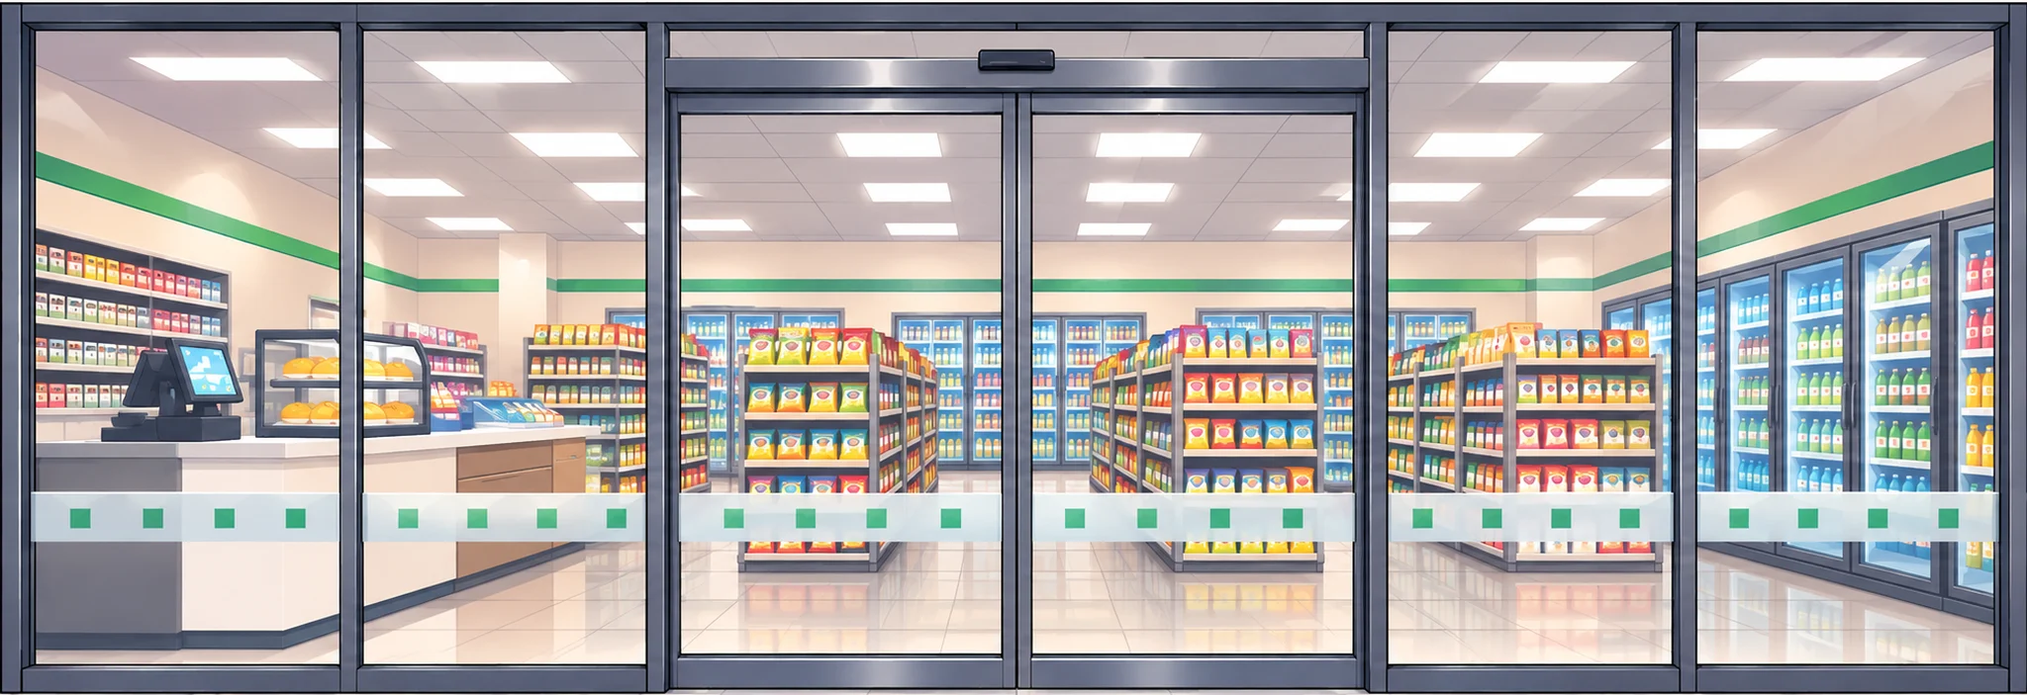
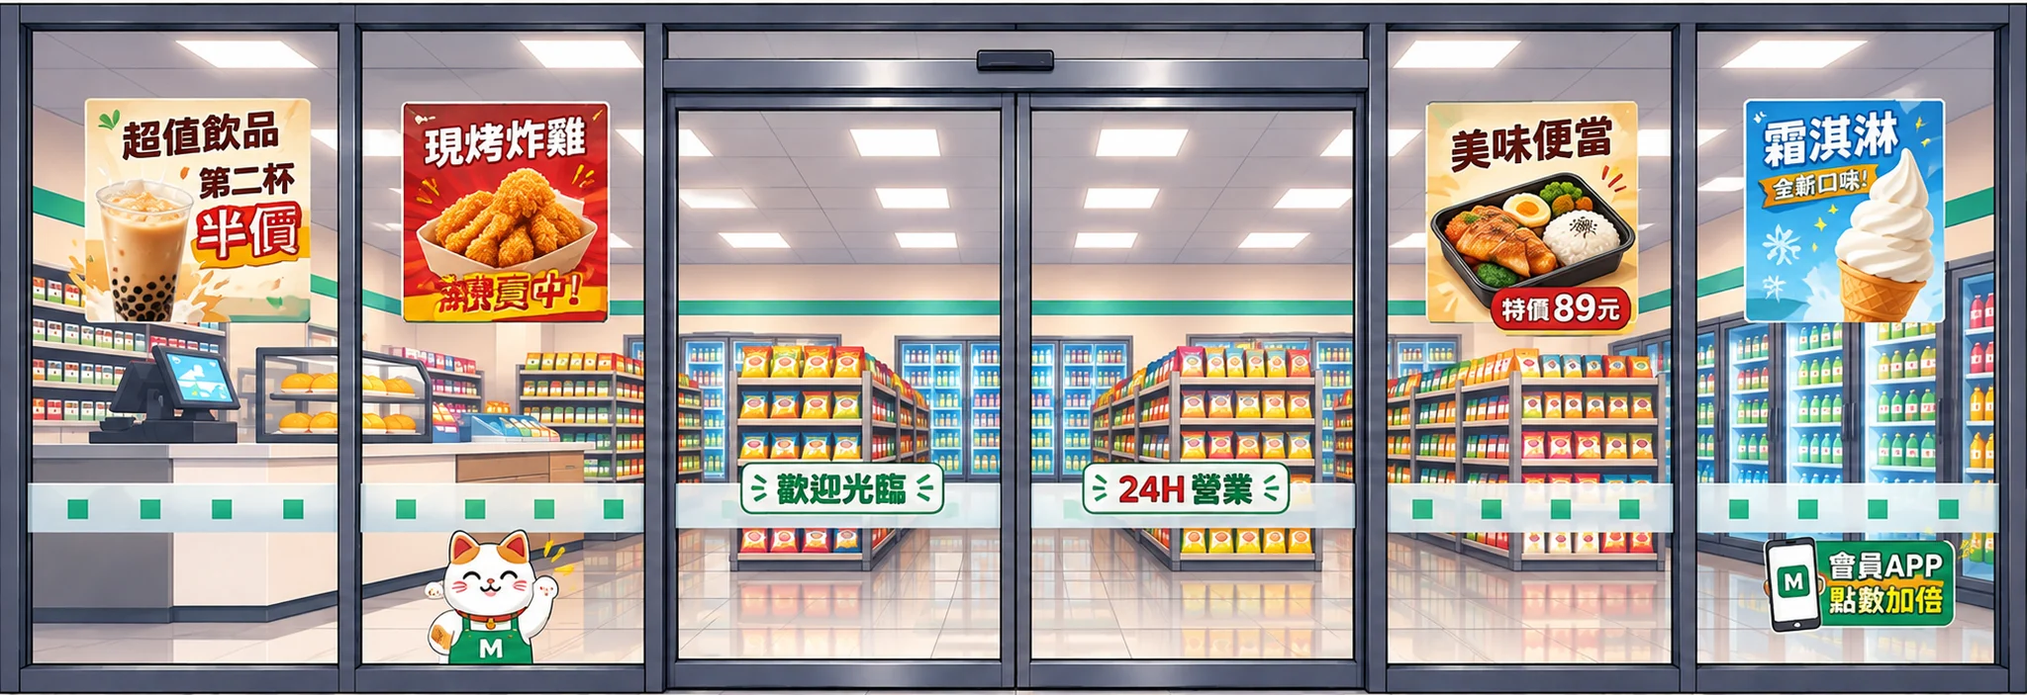
Outfits priced 8000–15000; five shifts and five claw wins a day; gacha tokens for sale (1000); coins above 65535 kept in the save code; new storefront picture
Claude-Session: https://claude.ai/code/session_01456otufrffQpDq9Gw439E7

diff --git a/public/index.html b/public/index.html
@@ -3170,15 +3170,15 @@ function buildStyle(t,v,out,acc){if(isStyleX(v))return buildStyleX(t,v);const g=
 }
 /* ---- 服飾店 outfits (styles 18–26): each has its own fixed colours (the colour rows don't change them), finer detail than the starter clothes ---- */
 const STYLEX=[
-  {n:"宮廷漢服",price:880,robe:6,d:"交領右衽、寬袖長裙，腰間繫紅色絲帶，背後披著淡藍披帛。"},
-  {n:"夏日浴衣",price:650,robe:7,d:"深藍底牽牛花浴衣，橘色寬腰帶在背後打成蝴蝶結。"},
-  {n:"海軍水手服",price:600,d:"白色上衣配深藍大方領、紅色領巾、百褶短裙和白色長襪。"},
-  {n:"星空魔法袍",price:780,robe:6,d:"綴滿金色星月的紫色長袍，立領、皮腰帶和星星胸針。"},
-  {n:"醒獅舞衣",price:720,d:"紅色對襟盤扣上衣，金黃腰帶，肩膀和衣襬滾著獅毛，配燈籠褲。"},
-  {n:"西部牛仔",price:640,d:"紅格子襯衫、皮背心配警長星章，大皮帶扣、牛仔褲和長靴。"},
-  {n:"太空人裝",price:980,d:"白色太空衣，胸前控制面板、任務臂章、維生背包和頸環。"},
-  {n:"紳士燕尾服",price:820,d:"黑色燕尾服配緞面翻領、銀灰背心、白領結和長燕尾。"},
-  {n:"偶像打歌服",price:900,d:"亮片外套配金色流蘇肩章、斜背綬帶和白色長褲。"},
+  {n:"宮廷漢服",price:13500,robe:6,d:"交領右衽、寬袖長裙，腰間繫紅色絲帶，背後披著淡藍披帛。"},
+  {n:"夏日浴衣",price:9000,robe:7,d:"深藍底牽牛花浴衣，橘色寬腰帶在背後打成蝴蝶結。"},
+  {n:"海軍水手服",price:8000,d:"白色上衣配深藍大方領、紅色領巾、百褶短裙和白色長襪。"},
+  {n:"星空魔法袍",price:11000,robe:6,d:"綴滿金色星月的紫色長袍，立領、皮腰帶和星星胸針。"},
+  {n:"醒獅舞衣",price:10000,d:"紅色對襟盤扣上衣，金黃腰帶，肩膀和衣襬滾著獅毛，配燈籠褲。"},
+  {n:"西部牛仔",price:8500,d:"紅格子襯衫、皮背心配警長星章，大皮帶扣、牛仔褲和長靴。"},
+  {n:"太空人裝",price:15000,d:"白色太空衣，胸前控制面板、任務臂章、維生背包和頸環。"},
+  {n:"紳士燕尾服",price:12000,d:"黑色燕尾服配緞面翻領、銀灰背心、白領結和長燕尾。"},
+  {n:"偶像打歌服",price:14000,d:"亮片外套配金色流蘇肩章、斜背綬帶和白色長褲。"},
 ];
 const STYLEX0=18; /* STYLES index of the first one */
 const isStyleX=v=>v>=STYLEX0&&v<STYLEX0+STYLEX.length;
@@ -4605,7 +4605,7 @@ const CODE_ITEMS=["xiang","hua","guo","bing","jin","fu"];
 function lookCode(){ const bits=[]; const put=(v,n)=>{ v=Math.max(0,Math.min((2**n)-1,v|0)); for(let i=n-1;i>=0;i--) bits.push((v/2**i|0)&1); };
   put(1,4); for(let i=0;i<13;i++) put(me.look[i]||0,5); put(bag.coins,16); CODE_ITEMS.forEach(k=>put(bag.items[k]||0,5)); put(bag.redThread?1:0,1);
   const ps=(bag.poems||[]).slice(-5); put(ps.length,3); ps.forEach(n=>put(n,6)); put(me.no||0,24);
-  const nm=[...String(me.sp?"":(me.name||""))].slice(0,10).join(""); const cu=[]; for(let i=0;i<nm.length;i++) cu.push(nm.charCodeAt(i)); put(Math.min(15,cu.length),4); cu.slice(0,15).forEach(c=>put(c,16)); { const a=accState(); put(Math.min(15,ACC_IDS.length),4); ACC_IDS.slice(0,15).forEach(id=>put(a.owned[id]?1:0,1)); } put(Math.min(255,bag.gacha||0),8); { const a=accState(), more=ACC_IDS.slice(15); put(more.length,6); more.forEach(id=>put(a.owned[id]?1:0,1)); } { const c=bag.cat&&bag.cat.pet; put(1,1); put(Math.min(255,bag.items.can||0),8); put(Math.min(255,bag.items.treat||0),8); put(c?1:0,1); if(c){ put(c.t,4); put(c.sd,16); const cn=[...String(c.nm||"")].slice(0,6); put(cn.length,3); cn.forEach(ch=>put(ch.charCodeAt(0),16)); TRICKS.forEach(([k])=>put(Math.min(7,c.tr&&c.tr[k]||0),3)); } } /* 貓: cans and your cat (older codes read as none) */ put(1,1); put(bag.clo||0,16); put(Math.max(0,Math.min(100,Math.round(bag.en??100))),7); SNACK_KEYS.forEach(k=>put(Math.min(63,(bag.snk||{})[k]||0),6)); /* 商店街: outfits bought, 精力, snacks (older codes read as none) */ /* 扭蛋幣 (codes made before it was added simply read as 0) */
+  const nm=[...String(me.sp?"":(me.name||""))].slice(0,10).join(""); const cu=[]; for(let i=0;i<nm.length;i++) cu.push(nm.charCodeAt(i)); put(Math.min(15,cu.length),4); cu.slice(0,15).forEach(c=>put(c,16)); { const a=accState(); put(Math.min(15,ACC_IDS.length),4); ACC_IDS.slice(0,15).forEach(id=>put(a.owned[id]?1:0,1)); } put(Math.min(255,bag.gacha||0),8); { const a=accState(), more=ACC_IDS.slice(15); put(more.length,6); more.forEach(id=>put(a.owned[id]?1:0,1)); } { const c=bag.cat&&bag.cat.pet; put(1,1); put(Math.min(255,bag.items.can||0),8); put(Math.min(255,bag.items.treat||0),8); put(c?1:0,1); if(c){ put(c.t,4); put(c.sd,16); const cn=[...String(c.nm||"")].slice(0,6); put(cn.length,3); cn.forEach(ch=>put(ch.charCodeAt(0),16)); TRICKS.forEach(([k])=>put(Math.min(7,c.tr&&c.tr[k]||0),3)); } } /* 貓: cans and your cat (older codes read as none) */ put(1,1); put(bag.clo||0,16); put(Math.max(0,Math.min(100,Math.round(bag.en??100))),7); SNACK_KEYS.forEach(k=>put(Math.min(63,(bag.snk||{})[k]||0),6)); put(Math.max(0,(bag.coins|0)-65535),24); /* (coins above the old 16-bit field) */ /* 商店街: outfits bought, 精力, snacks (older codes read as none) */ /* 扭蛋幣 (codes made before it was added simply read as 0) */
   while(bits.length%8) bits.push(0); const bytes=[]; for(let i=0;i<bits.length;i+=8){ let b=0; for(let j=0;j<8;j++) b=b*2+bits[i+j]; bytes.push(b); } bytes.push(bytes.reduce((a,b)=>(a+b)&255,0x5a));
   return "MZ-"+btoa(String.fromCharCode(...bytes)).replace(/\+/g,"-").replace(/\//g,"_").replace(/=+$/,""); }
 function readCode(str){ try{ str=String(str||"").trim().replace(/\s+/g,""); if(!/^MZ-[A-Za-z0-9_-]{10,}$/.test(str)) return null; const raw=atob(str.slice(3).replace(/-/g,"+").replace(/_/g,"/")); const bytes=[...raw].map(c=>c.charCodeAt(0));
@@ -4613,8 +4613,8 @@ function readCode(str){ try{ str=String(str||"").trim().replace(/\s+/g,""); if(!
   if(get(4)!==1) return null; const look=[]; for(let i=0;i<13;i++) look.push(get(5)); const coins=get(16); const items={}; CODE_ITEMS.forEach(k=>{ const v=get(5); if(v) items[k]=v; }); const red=get(1);
   const pn=get(3), poems=[]; for(let i=0;i<pn;i++){ const n=get(6); if(n>=1&&n<=60) poems.push(n); } const no=get(24); const nl=get(4); let name=""; for(let i=0;i<nl;i++) name+=String.fromCharCode(get(16));
   const an=get(4), acc=[]; for(let i=0;i<an;i++) if(get(1)&&ACC_IDS[i]) acc.push(ACC_IDS[i]); const gacha=get(8); { const an2=get(6); for(let i=0;i<an2;i++) if(get(1)&&ACC_IDS[15+i]) acc.push(ACC_IDS[15+i]); } let cans=0, treat=0, cat=null; if(get(1)){ cans=get(8); treat=get(8); if(get(1)){ cat={t:get(4)%11,sd:get(16)}; const l=get(3); let nm=""; for(let i=0;i<l;i++) nm+=String.fromCharCode(get(16)); cat.nm=nm||"咪咪"; cat.tr={}; TRICKS.forEach(([k])=>{ const v=get(3); if(v) cat.tr[k]=v; }); } }
-  let shop=null; if(get(1)){ shop={clo:get(16),en:get(7),snk:{}}; SNACK_KEYS.forEach(k=>{ const v=get(6); if(v) shop.snk[k]=v; }); }
-  return {look,coins,items,red,poems,no,name,acc,gacha,cans,treat,cat,shop}; }catch(e){ return null; } }
+  let shop=null; if(get(1)){ shop={clo:get(16),en:get(7),snk:{}}; SNACK_KEYS.forEach(k=>{ const v=get(6); if(v) shop.snk[k]=v; }); shop.xc=get(24); }
+  return {look,coins:coins+(shop&&shop.xc||0),items,red,poems,no,name,acc,gacha,cans,treat,cat,shop}; }catch(e){ return null; } }
 /* 除霧 (chair only, this screen only): the haze is lifted so the far scenery and the whole sky show reads clearly; press again to bring it back */
 const NOFOG={on:false,near:0,far:0};
 HANDLERS.noFog=()=>{ NOFOG.on=!NOFOG.on; if(NOFOG.on){ NOFOG.near=scene.fog.near; NOFOG.far=scene.fog.far; scene.fog.near=1e4; scene.fog.far=2e4; } else { scene.fog.near=NOFOG.near; scene.fog.far=NOFOG.far; } toast(NOFOG.on?"已除霧（只有你的畫面）":"霧氣已恢復",2200); openChair(); };
@@ -9958,6 +9958,11 @@ const inR=(r,x,z,m=0)=>x>r[0]+m&&x<r[1]-m&&z>r[2]+m&&z<r[3]-m;
 SX.walk=()=>false; SX.inP=()=>false; /* (the street is part of the 禪房 grounds now: innWalkableL) */
 if(typeof bag.en!=="number") bag.en=100; bag.snk=bag.snk&&typeof bag.snk==="object"?bag.snk:{}; bag.clo=bag.clo|0;
 const EN_SHIFT=25, CLAW_COST=15;
+/* daily limits: 打工 five shifts a day, 夾娃娃 five wins a day */
+const WORK_MAX=5, CLAW_WIN_MAX=5;
+function dayCount(k){ if(bag[k+"Day"]!==today){ bag[k+"Day"]=today; bag[k]=0; } return bag[k]|0; }
+function dayAdd(k){ dayCount(k); bag[k]=(bag[k]|0)+1; saveBag(); }
+const GACHA_PRICE=1000;
 /* snacks: 平安幣 price in the shop, 精力 they give back, and the NT$ shelf price used in the cashier game */
 const SNACKS=[
   {k:"drink",n:"古早味紅茶",p:12,e:12,nt:25,col:"#b4502e",tag:"飲料"},
@@ -10254,11 +10259,11 @@ function storeTap(o,S,cx,cy){ const nd=new T.Vector2(cx/innerWidth*2-1,-(cy/inne
 function tapLayer(o,fn){ const t=o.el.querySelector(".shx-touch"); let sx=0, sy=0, st=0; t.addEventListener("pointerdown",e=>{ sx=e.clientX; sy=e.clientY; st=performance.now(); });
   t.addEventListener("pointerup",e=>{ if(Math.hypot(e.clientX-sx,e.clientY-sy)<14&&performance.now()-st<700){ try{ ensureAudio(); }catch(_){} fn(e.clientX,e.clientY); } }); }
 /* ---------- the door: shop or work ---------- */
-function cvsMenu(){ const e=en(); openSheet("cvs","好運來便利商店",`<p class="lead">叮咚～歡迎光臨！要進去買東西，還是來打工？</p><div class="goods">
+function cvsMenu(){ const e=en(), left=WORK_MAX-dayCount("wk"); openSheet("cvs","好運來便利商店",`<p class="lead">叮咚～歡迎光臨！要進去買東西，還是來打工？</p><div class="goods">
   <button class="good" data-act="cvsGo" data-v="buy"><span class="name">🛒 進去買東西</span><span class="meta">飲料、餅乾、泡麵、提神飲料、啤酒、麵包，吃了會恢復精力</span></button>
-  <button class="good" data-act="cvsGo" data-v="work"${e<EN_SHIFT?' style="opacity:.55"':""}><span class="name">🧑💼 打工一班（100 秒）</span><span class="meta">要花 ${EN_SHIFT} 精力・你現在有 ${e} 精力。結帳找零、補貨上架，賺平安幣</span></button></div>
+  <button class="good" data-act="cvsGo" data-v="work"${e<EN_SHIFT||left<=0?' style="opacity:.55"':""}><span class="name">🧑💼 打工一班（100 秒）</span><span class="meta">要花 ${EN_SHIFT} 精力・你現在有 ${e} 精力・今天還能打工 ${left} 班（每天最多 ${WORK_MAX} 班）。結帳找零、補貨上架，賺平安幣</span></button></div>
   <p class="note">精力用完就不能打工。吃東西可以補；在禪房也能慢慢恢復：套房的床最快，再來是通鋪、溫泉、禪堂靜坐。</p>`); }
-HANDLERS.cvsGo=v=>{ if(v==="work"){ if(en()<EN_SHIFT){ toast(`精力不夠（要 ${EN_SHIFT}，你有 ${en()}），先吃點東西或去休息`,3000); return; } closeSheet(); workStart(); } else { closeSheet(); buyStart(); } };
+HANDLERS.cvsGo=v=>{ if(v==="work"){ if(dayCount("wk")>=WORK_MAX){ toast(`今天已經打工 ${WORK_MAX} 班了，明天再來`,2800); return; } if(en()<EN_SHIFT){ toast(`精力不夠（要 ${EN_SHIFT}，你有 ${en()}），先吃點東西或去休息`,3000); return; } closeSheet(); workStart(); } else { closeSheet(); buyStart(); } };
 SX.station=k=>{ if(k==="cvs"){ cvsMenu(); return true; } if(k==="claw"){ clawStart(); return true; } if(k==="cloth"){ clothStart(); return true; } return false; };
 
 /* ======================= 購物: standing at the counter, the clerk behind it ======================= */
@@ -10269,10 +10274,11 @@ function buyStart(){ const S=buildStore(); const o={exposure:1.05,avs:[]}; const
   const browsers=[]; for(let i=0;i<2;i++){ const sh=STORE_SHELVES[(Math.random()*6)|0]; const b=shopAv(S.R,randomLook(),sh.ap[0]+(Math.random()-.5)*.6,sh.ap[1],1.6); b.faceGoal=sh.face; b.idle=2+Math.random()*4; browsers.push(b); o.avs.push(b); }
   el.insertAdjacentHTML("beforeend",`<div class="shx-top"><span class="shx-title">🏪 好運來便利商店</span><span class="shx-pill" id="bCoins"></span><span class="shx-pill" id="bEn"></span><button class="shx-x" id="bX">離開</button></div><div class="shx-panel"><div class="shx-grid" id="bGrid"></div><p style="margin:8px 2px 0;font-size:12px;color:#d9c9a8">「買」放進背包，想吃的時候再拿出來；「買來吃」直接補精力。</p></div>`);
   const draw=()=>{ el.querySelector("#bCoins").textContent=`💰 ${bag.coins}`; el.querySelector("#bEn").textContent=`⚡ ${en()}`;
-    el.querySelector("#bGrid").innerHTML=SNACKS.map(s=>`<div class="shx-item">${snImg(s.k,46)}<b>${s.n}</b><span><span class="pr">${s.p} 幣</span>・<span class="en">⚡+${s.e}</span></span><span style="font-size:11px;color:#bba">背包有 ${bag.snk[s.k]||0}</span><div class="bt"><button class="shx-btn sec" data-b="${s.k}">買</button><button class="shx-btn" data-e="${s.k}">買來吃</button></div></div>`).join(""); };
+    el.querySelector("#bGrid").innerHTML=`<div class="shx-item"><span style="font-size:36px;line-height:46px">🎟</span><b>扭蛋幣</b><span><span class="pr">${GACHA_PRICE} 幣</span></span><span style="font-size:11px;color:#bba">你有 ${bag.gacha||0} 枚</span><div class="bt"><button class="shx-btn" data-g="1">買一枚</button></div></div>`+SNACKS.map(s=>`<div class="shx-item">${snImg(s.k,46)}<b>${s.n}</b><span><span class="pr">${s.p} 幣</span>・<span class="en">⚡+${s.e}</span></span><span style="font-size:11px;color:#bba">背包有 ${bag.snk[s.k]||0}</span><div class="bt"><button class="shx-btn sec" data-b="${s.k}">買</button><button class="shx-btn" data-e="${s.k}">買來吃</button></div></div>`).join(""); };
   draw(); let greeted=false;
   const talk=(t,secs=2.6)=>{ bubble(o,clerk,t,secs); babble(Math.min(1.6,t.length*.12),1.05); };
-  el.querySelector("#bGrid").addEventListener("click",ev=>{ const b=ev.target.closest("button"); if(!b) return; const k=b.dataset.b||b.dataset.e, s=SN[k]; if(!s) return;
+  el.querySelector("#bGrid").addEventListener("click",ev=>{ const b=ev.target.closest("button"); if(!b) return;
+    if(b.dataset.g){ if(bag.coins<GACHA_PRICE){ buzz(); talk("平安幣好像不夠喔～"); return; } bag.coins-=GACHA_PRICE; bag.gacha=Math.min(255,(bag.gacha||0)+1); saveBag(); markDirty(); beep(); setTimeout(chaChing,200); talk("扭蛋幣一枚，祝你轉到想要的！"); draw(); return; } const k=b.dataset.b||b.dataset.e, s=SN[k]; if(!s) return;
     if(bag.coins<s.p){ buzz(); talk("平安幣好像不夠喔～"); return; } if(b.dataset.e&&bag.en>=100){ talk("你看起來精神很好耶，先放背包吧？"); return; }
     bag.coins-=s.p; beep(); setTimeout(chaChing,200); if(b.dataset.e){ eat(k,false); bubble(o,meS,`好吃！⚡+${s.e}`,2,"ok"); } else { bag.snk[k]=(bag.snk[k]||0)+1; } saveBag(); markDirty(); statInc("cvsBuy");
     talk(["謝謝光臨～","要不要加購關東煮？","發票要載具嗎？","歡迎再來喔～","這個很好吃喔！","需要袋子嗎？"][(Math.random()*6)|0]); draw(); });
@@ -10289,7 +10295,7 @@ const moneyHTML=v=>`<span class="money ${v>=100?"bill":"coin"} m${v}">${v}</span
 const breakDown=n=>{ const out=[]; for(const d of NT_DEN){ while(n>=d){ out.push(d); n-=d; } } return out; };
 function payFor(t){ const r=Math.random(); if(r<.16) return breakDown(t); if(r<.58){ const b=[100,500,1000].find(b=>b>=t)||1000; return [b]; }
   if(r<.84){ const b=Math.ceil(t/100)*100, extra=t%10; return breakDown(b).concat(extra&&b>t?breakDown(extra):[]); } const b=Math.ceil(t/50)*50; return breakDown(b===t?b+50:b); }
-function workStart(){ const S=buildStore(); bag.en=Math.max(0,bag.en-EN_SHIFT); saveBag(); statInc("cvsWork");
+function workStart(){ const S=buildStore(); bag.en=Math.max(0,bag.en-EN_SHIFT); dayAdd("wk"); saveBag(); statInc("cvsWork");
   const o={exposure:1.05,avs:[]}; const el=enterMode("cvs-work",o); SX.busy=true;
   const W={t:100,run:false,done:false,pay:0,served:0,miss:0,err:0,rest:0,carry:null,cust:[],queue:[],spawnT:2,cash:null,dismiss:false};
   S.shelves.forEach(sh=>shelfSet(sh,Math.round(sh.cap*(.3+Math.random()*.45))));
@@ -10342,7 +10348,7 @@ function workStart(){ const S=buildStore(); bag.en=Math.max(0,bag.en-EN_SHIFT); 
   const finish=early=>{ if(W.done) return; W.done=true; W.run=false; SX.busy=false; closeCash(); const bonus=(!early&&W.served>=8&&W.miss===0&&W.err===0)?80:0; const total=W.pay+bonus; bag.coins+=total; saveBag(); markDirty(); try{ profSave(true); }catch(e){}
     const msg=W.served>=10&&W.miss===0?"店長：「你太厲害了，下次再來幫忙！」":W.served>=5?"店長：「做得不錯，辛苦了！」":"店長：「慢慢來，下次會更好。」";
     const c=card(`<h3>${early?"提早下班":"打烊了！"}</h3><p>🙂 結帳 ${W.served} 位客人${W.miss?`　😠 走掉 ${W.miss} 位`:""}</p><p>📦 補貨 ${W.rest} 次${W.err?`　❌ 找錯 ${W.err} 次`:""}</p>${bonus?`<p>🌟 全勤零失誤獎金 +${bonus}</p>`:""}<p style="font-size:17px;text-align:center;margin-top:10px">今天的薪水 <b style="color:#ffd76a;font-size:24px">${total}</b> 平安幣</p><p style="text-align:center;color:#d9c9a8">${msg}</p>
-      <div class="row">${en()>=EN_SHIFT?`<button class="shx-btn sec" id="fAgain">再上一班（⚡−${EN_SHIFT}）</button>`:""}<button class="shx-btn" id="fOut">離開</button></div><p style="text-align:center;font-size:12px;color:#bba;margin-top:8px">⚡ 精力剩 ${en()}</p>`);
+      <div class="row">${en()>=EN_SHIFT&&dayCount("wk")<WORK_MAX?`<button class="shx-btn sec" id="fAgain">再上一班（⚡−${EN_SHIFT}）</button>`:""}<button class="shx-btn" id="fOut">離開</button></div><p style="text-align:center;font-size:12px;color:#bba;margin-top:8px">⚡ 精力剩 ${en()}・今天還能打工 ${WORK_MAX-dayCount("wk")} 班</p>`);
     try{ chaChing(); }catch(e){} const a=c.querySelector("#fAgain"); if(a) a.onclick=()=>{ leaveMode(); workStart(); }; c.querySelector("#fOut").onclick=()=>{ leaveMode(); toast(`打工賺了 ${total} 平安幣`,2600); }; };
   o.update=dt=>{ o.avs.forEach(a=>{ avTick(a,dt); if(a.arrive&&atGoal(a)){ const f=a.arrive; a.arrive=null; f(); } });
     if(!W.run) return; W.t-=dt; if(W.t<=0){ W.t=0; hud(); finish(false); return; }
@@ -10405,10 +10411,10 @@ function clawStart(){ const C=buildClaw(); const o={exposure:1.05}; const el=ent
   const G={st:"idle",t:0,timer:0,held:null,hum:null}; let jx=0, jz=0;
   el.insertAdjacentHTML("beforeend",`<div class="shx-top"><span class="shx-title">🧸 夾娃娃機</span><span class="shx-pill" id="kC"></span><span class="shx-pill" id="kT" hidden></span><button class="shx-x" id="kX">離開</button></div>
     <div class="shx-pip" id="kPip"><span>側面</span></div><div class="shx-pad" id="kJ" hidden><button data-d="u">▲</button><button data-d="l">◀</button><button data-d="r">▶</button><button data-d="d">▼</button></div><button class="shx-drop" id="kD" hidden>下爪</button>
-    <div class="shx-panel" id="kP" style="text-align:center"><p style="margin:0 0 8px;font-size:14px;color:#f3e7d0">一次 ${CLAW_COST} 平安幣・按住 ◀ ▶ 左右、▲ ▼ 前後移動爪子（20 秒），對準後按「下爪」。<br>夾起來送到左前方的取物口就是你的！右上角的側面畫面可以對準前後。</p><button class="shx-btn" id="kGo">投幣 ${CLAW_COST} 幣・開始</button></div>`);
+    <div class="shx-panel" id="kP" style="text-align:center"><p style="margin:0 0 8px;font-size:14px;color:#f3e7d0">一次 ${CLAW_COST} 平安幣・按住 ◀ ▶ 左右、▲ ▼ 前後移動爪子（20 秒），對準後按「下爪」。<br>夾起來送到左前方的取物口就是你的！每天最多夾中 ${CLAW_WIN_MAX} 次（今天還有 ${CLAW_WIN_MAX-dayCount("clw")} 次）。右上角的側面畫面可以對準前後。</p><button class="shx-btn" id="kGo">投幣 ${CLAW_COST} 幣・開始</button></div>`);
   const $k=s=>el.querySelector(s); const coins=()=>{ $k("#kC").textContent=`💰 ${bag.coins}`; }; coins();
   const humSet=on=>{ try{ const a=soundOn?ensureAudio():null; if(!a) return; if(on&&!G.hum){ const os=a.createOscillator(), lp=a.createBiquadFilter(), g=a.createGain(); os.type="sawtooth"; os.frequency.value=70; lp.type="lowpass"; lp.frequency.value=320; g.gain.value=.035*sVol(); os.connect(lp).connect(g).connect(sfxBus(a)); os.start(); G.hum={os,g}; } if(!on&&G.hum){ const h=G.hum; G.hum=null; h.g.gain.setTargetAtTime(0,a.currentTime,.05); setTimeout(()=>{ try{ h.os.stop(); }catch(e){} },300); } }catch(e){} };
-  const play=()=>{ if(G.st!=="idle") return; if(bag.coins<CLAW_COST){ buzz(); toast(`平安幣不夠，一次要 ${CLAW_COST}`,2200); return; } bag.coins-=CLAW_COST; saveBag(); markDirty(); coins(); statInc("clawPlay"); SX.busy=true;
+  const play=()=>{ if(G.st!=="idle") return; if(dayCount("clw")>=CLAW_WIN_MAX){ toast(`今天已經夾中 ${CLAW_WIN_MAX} 次了，明天再來`,2800); return; } if(bag.coins<CLAW_COST){ buzz(); toast(`平安幣不夠，一次要 ${CLAW_COST}`,2200); return; } bag.coins-=CLAW_COST; saveBag(); markDirty(); coins(); statInc("clawPlay"); SX.busy=true;
     try{ tone(1200,.05,.08,"square"); tone(900,.05,.08,"square",.08); [523,659,784,1047].forEach((f,i)=>tone(f,.12,.07,"triangle",.2+i*.09)); }catch(e){}
     for(const k in held) held[k]=0; jx=jz=0; J.querySelectorAll("button").forEach(b=>b.classList.remove("on")); G.st="move"; G.timer=20; $k("#kP").hidden=true; $k("#kJ").hidden=false; $k("#kD").hidden=false; $k("#kT").hidden=false; };
   $k("#kGo").onclick=play;
@@ -10420,7 +10426,7 @@ function clawStart(){ const C=buildClaw(); const o={exposure:1.05}; const el=ent
     b.addEventListener("pointerdown",on); b.addEventListener("pointerup",off); b.addEventListener("pointercancel",off); b.addEventListener("lostpointercapture",off); });
   const keyH=e=>{ if(G.st!=="move") return; const d=e.type==="keydown"; if(e.key==="ArrowLeft") jx=d?-1:0; if(e.key==="ArrowRight") jx=d?1:0; if(e.key==="ArrowUp") jz=d?-1:0; if(e.key==="ArrowDown") jz=d?1:0; if(d&&(e.key===" "||e.key==="Enter")) drop(); };
   addEventListener("keydown",keyH); addEventListener("keyup",keyH);
-  const win=p=>{ let what="", ic="🎁"; const t=p.type;
+  const win=p=>{ let what="", ic="🎁"; const t=p.type; dayAdd("clw");
     if(t==="cat"){ bag.coins+=30; what="平安幣 +30"; ic="🐱"; } if(t==="cap"){ bag.gacha=Math.min(255,(bag.gacha||0)+2); what="扭蛋幣 +2 枚"; ic="🥚"; } if(t==="can"){ bag.snk.drink=(bag.snk.drink||0)+1; what="古早味紅茶 ×1（放進背包）"; ic="🧃"; } if(t==="cup"){ bag.snk.noodle=(bag.snk.noodle||0)+1; what="牛肉泡麵 ×1（放進背包）"; ic="🍜"; }
     if(t==="gift"){ let L=[]; try{ L=gachaLeft(); }catch(e){} if(L.length&&!me.sp){ const k=L[(Math.random()*L.length)|0]; accState().owned[k]=1; what=`頭飾「${ACC[k].name}」！（放進背包的飾品）`; ic=""; G.hat=k; } else { bag.coins+=60; what="平安幣 +60"; } }
     saveBag(); markDirty(); try{ profSave(true); }catch(e){} statInc("clawWin"); coins();

diff --git a/HANDOFF.md b/HANDOFF.md
@@ -557,3 +557,4 @@ audio-fix（測試版）另外完成、**尚未部署**：
 - 商店改在禪房北邊、門面跟禪房正面齊（x=37 朝西）：便利商店 z -14.7…-4.3、夾娃娃 -3.7…1.3、服飾店 2…11.2。商店用一個轉了 90° 的群組（local→world: (45.6+z, 21−x)）。可走範圍：innWalkableL 外面 x 23.9–36.88、z −51…12.4；R 區延到 z<13；那一塊不長樹。
 - 店面立體：牆 30cm 厚、圖片內縮到牆後，前面有真的窗框（金屬條）和玻璃反光；超商圖 public/shop/cvs-front.webp，服飾店 cloth-front.webp。服飾店雨棚改成從牆上往外斜下＋波浪邊，條紋 50cm 寬。展示人偶拿掉（圖裡已有）。
 - 夾娃娃：主委給的模型 public/claw.glb（+ claw-lite.glb，gltfpack -si .5），三台並排；正面是模型的 +z。玩法：▲▼◀▶ 按住移動（不用搖桿），下爪時先鎖定爪子下方最高的那個獎品、爪子停在它一半高度；成功率 grip×(0.5+0.5×對準)×0.85–1，比之前容易；搬運時滑落機率降低；取物口加大。
+- 11/11 18:10：衣服改價 8000–15000（水手 8000、牛仔 8500、浴衣 9000、醒獅 10000、魔法 11000、燕尾 12000、漢服 13500、偶像 14000、太空人 15000）。打工每天最多 5 班（bag.wk/wkDay），夾娃娃每天最多夾中 5 次（bag.clw/clwDay，滿了不能投幣）。便利商店可買扭蛋幣 1000 幣一枚。存檔碼平安幣超過 65535 的部分存在商店擴充段（24 bit），舊碼不受影響。超商換新圖（海報、招財貓版）。
